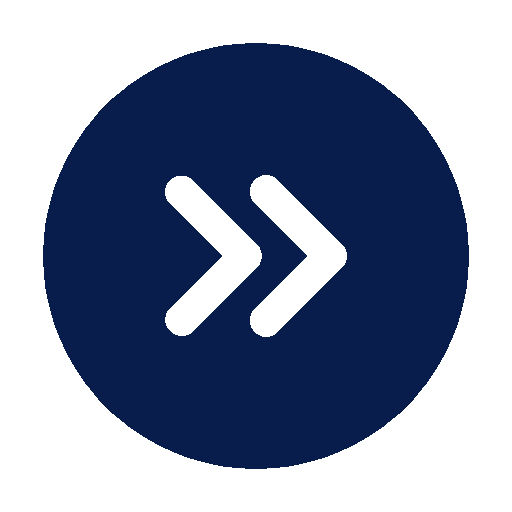
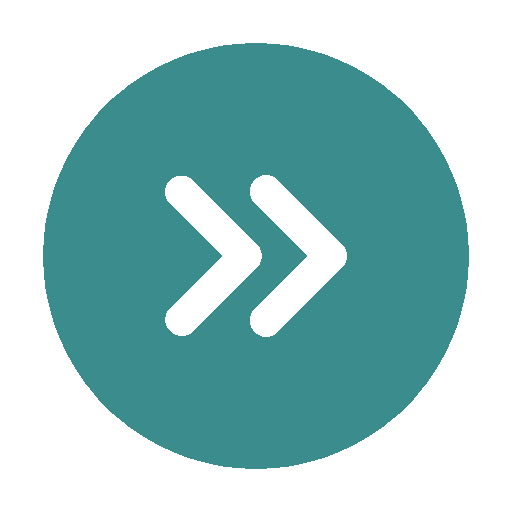
change color for each theme

diff --git a/source/Menu.cpp b/source/Menu.cpp
@@ -17,28 +17,28 @@ Menu::Menu(FormSetting f_setting, const Vector2& windowSize) :
     children.push_back(&MenuDSA);
 
     BSTForm.setSize(m_windowSize.x/2-10, m_windowSize.y/2-70);
-    BSTForm.setButtonStage(0, AVL0, AVL3);    
+    BSTForm.setButtonStage(0, AVL0, AVL_hovered);    
     BSTForm.setPosition(-BSTForm.getSize().x-100, 100);
     BSTForm.add_vertex({-BSTForm.getSize().x-100, 100});
     BSTForm.add_vertex({0, 100});
     BSTForm.moveNext();
 
     GraphForm.setSize(m_windowSize.x/2-10, m_windowSize.y/2-70);
-    GraphForm.setButtonStage(0, Graph0, Graph2);
+    GraphForm.setButtonStage(0, Graph0, Graph2_hovered);
     GraphForm.setPosition(m_windowSize.x+100, 100);
     GraphForm.add_vertex({m_windowSize.x+100, 100});
     GraphForm.add_vertex({m_windowSize.x/2+10, 100});
     GraphForm.moveNext();
 
     HashTableForm.setSize(m_windowSize.x/2-10, m_windowSize.y/2-70);
-    HashTableForm.setButtonStage(0, HT0, HT3);
+    HashTableForm.setButtonStage(0, HT0, HT_hovered);
     HashTableForm.setPosition(-HashTableForm.getSize().x*2, m_windowSize.y/2+50);
     HashTableForm.add_vertex({-HashTableForm.getSize().x*2, HashTableForm.getPosition().y});
     HashTableForm.add_vertex({0, HashTableForm.getPosition().y});
     HashTableForm.moveNext();
 
     SLLForm.setSize(m_windowSize.x/2-10, m_windowSize.y/2-70);
-    SLLForm.setButtonStage(0, SLL0, SLL2);
+    SLLForm.setButtonStage(0, SLL0, SLL_hovered);
     SLLForm.setPosition(m_windowSize.x*2, m_windowSize.y/2+50);
     SLLForm.add_vertex({m_windowSize.x*2, SLLForm.getPosition().y});
     SLLForm.add_vertex({m_windowSize.x/2+10, SLLForm.getPosition().y});

diff --git a/include/IncludePath.h b/include/IncludePath.h
@@ -10,17 +10,21 @@
 #define Graph1 source"/asset/images/Graph1.png"
 #define Graph2 source"/asset/images/Graph2.png"
 #define Graph3 source"/asset/images/Graph3.png"
+#define Graph2_hovered source"/asset/images/Graph2_hovered.png"
 #define AVL0 source"/asset/images/AVL0.png"
 #define AVL1 source"/asset/images/AVL1.png"
 #define AVL2 source"/asset/images/AVL2.png"
 #define AVL3 source"/asset/images/AVL3.png"
+#define AVL_hovered source"/asset/images/AVL3_hovered.png"
 #define SLL0 source"/asset/images/SLL0.png"
 #define SLL1 source"/asset/images/SLL1.png"
 #define SLL2 source"/asset/images/SLL2.png"
 #define SLL3 source"/asset/images/SLL3.png"
+#define SLL_hovered source"/asset/images/SLL_hovered.png"
 #define HT0 source"/asset/images/HT0.png"
 #define HT1 source"/asset/images/HT1.png"
 #define HT2 source"/asset/images/HT2.png"
 #define HT3 source"/asset/images/HT3.png"
+#define HT_hovered source"/asset/images/HT3_hovered.png"
 
 #endif
